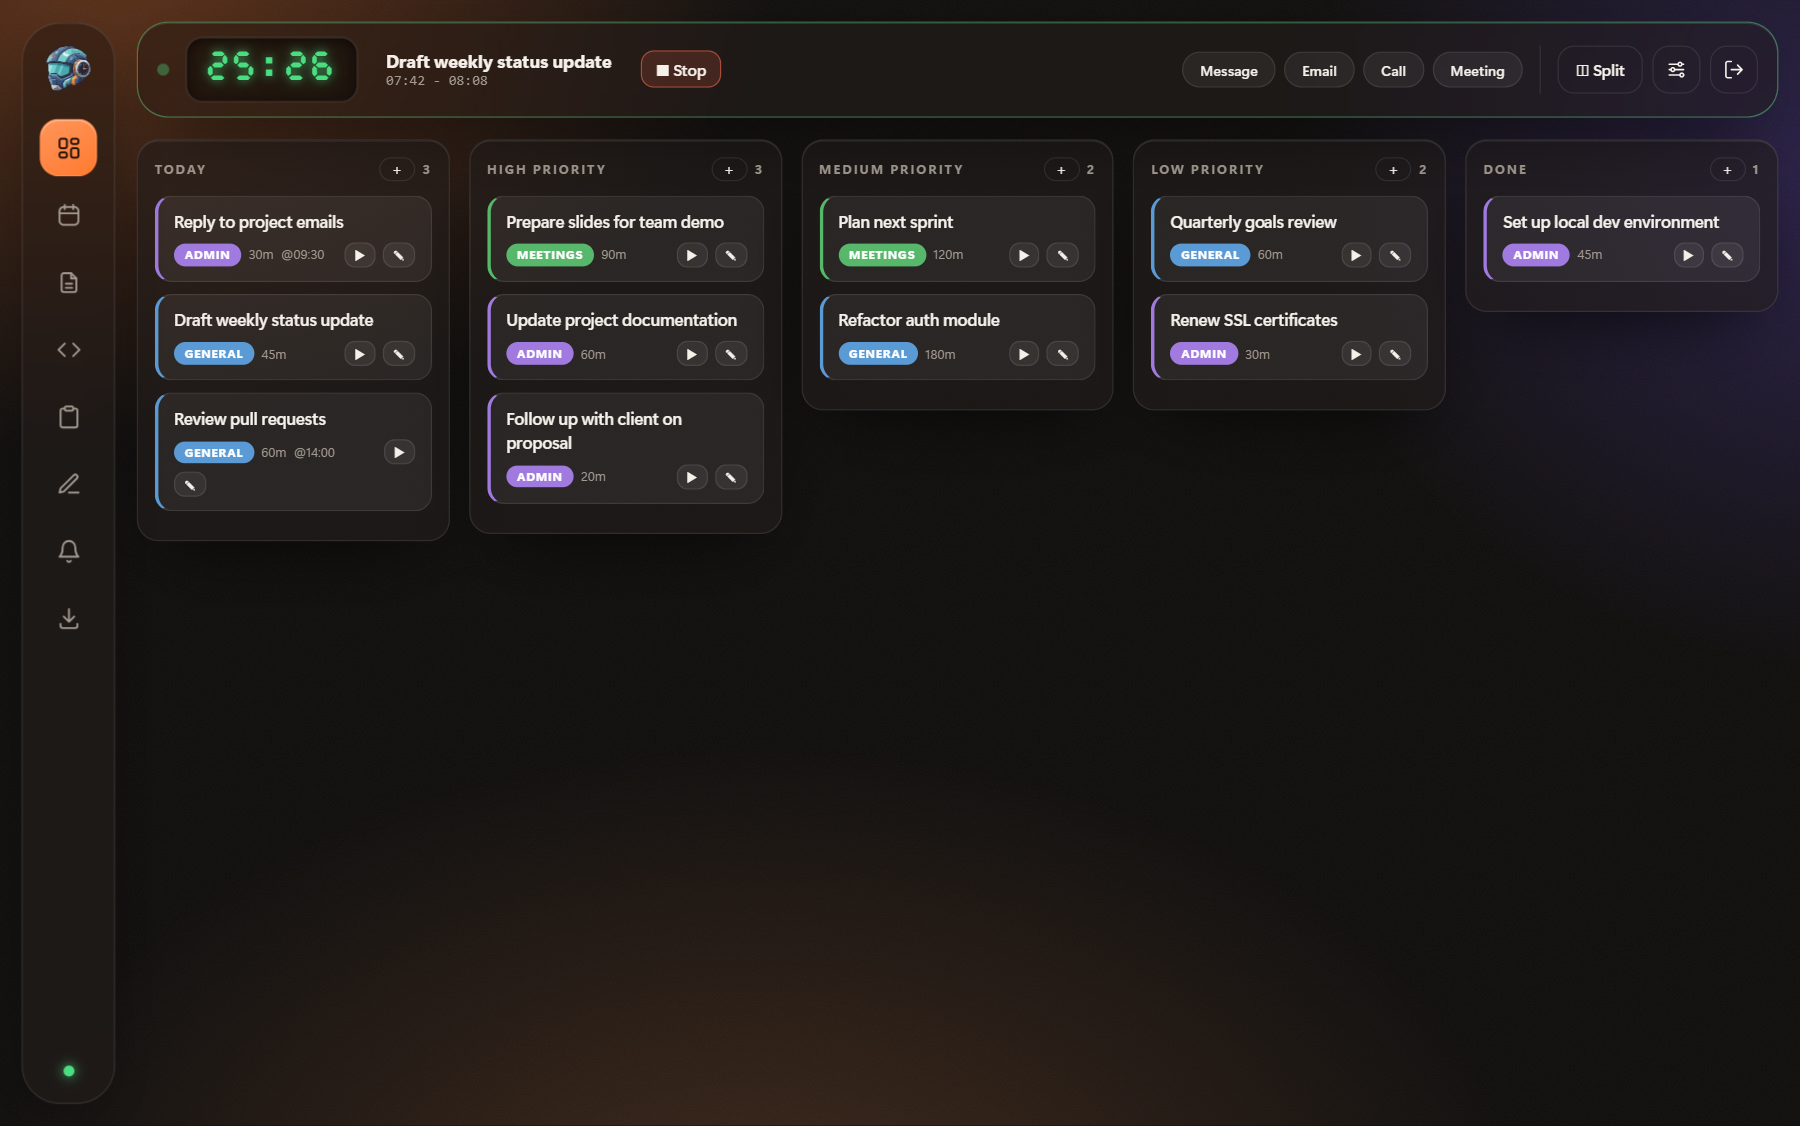
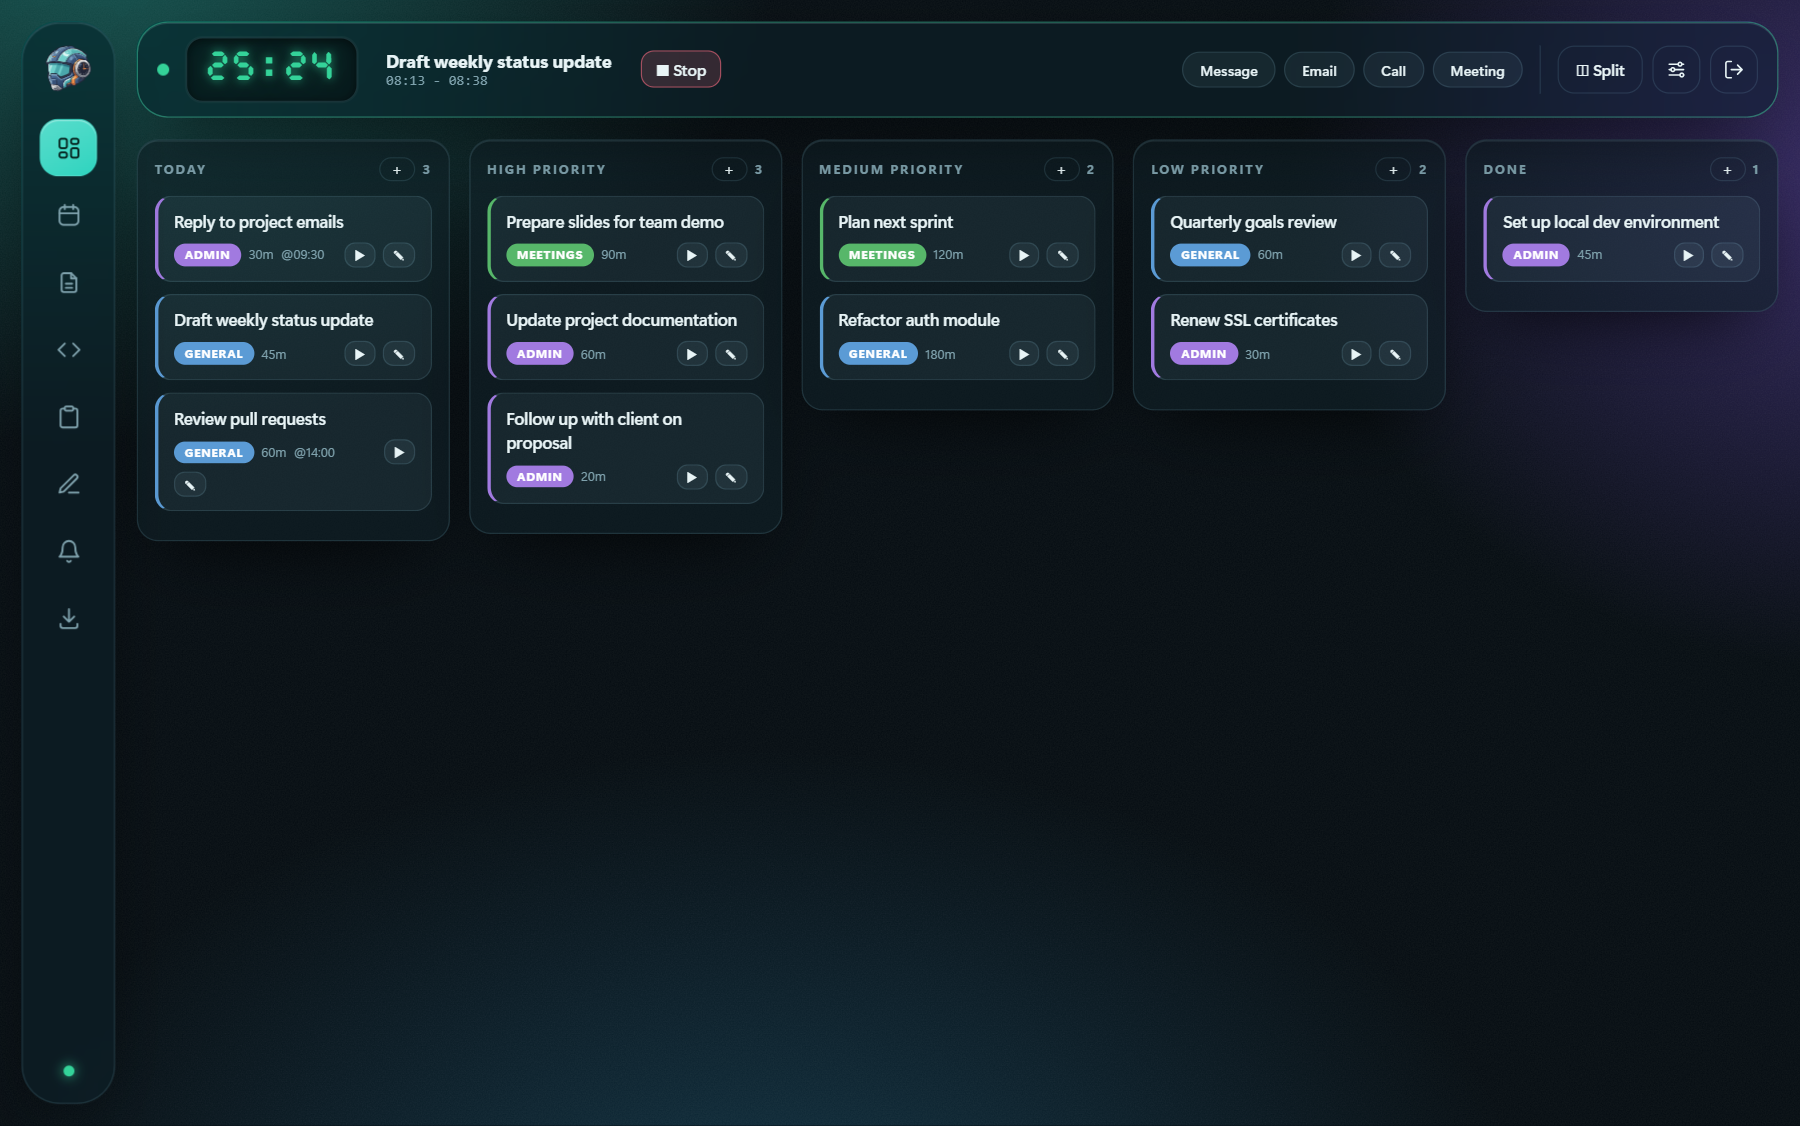
Make Aurora the default theme; redo Dark as true-black ink theme
Re-record screenshots and demo with Aurora, add docs/screenshot-dark.png,
retint login page to match.

diff --git a/templates/base_auth.html b/templates/base_auth.html
@@ -7,15 +7,15 @@
 <link rel="icon" type="image/png" href="{{ url_for('static', filename='favicon.png') }}">
 <style>
 *{box-sizing:border-box;margin:0}
-:root{--bg:#0e0c0b;--surface:rgba(34,30,28,.58);--surface2:rgba(255,255,255,.06);--line:rgba(255,255,255,.10);
-  --text:#f5f0ea;--muted:#a39a91;--accent:#ff7a2f;--danger:#ff6a4d;color-scheme:dark}
+:root{--bg:#050c11;--surface:rgba(15,32,40,.58);--surface2:rgba(190,240,255,.06);--line:rgba(160,230,255,.12);
+  --text:#e8f4f6;--muted:#7fa2ad;--accent:#2dd4bf;--danger:#ff6b81;color-scheme:dark}
 html{background:var(--bg)}
 body{color:var(--text);font-family:"Inter","SF Pro Display","Segoe UI Variable Display","Segoe UI",system-ui,-apple-system,Roboto,sans-serif;
   min-height:100vh;display:flex;align-items:center;justify-content:center;padding:20px;-webkit-font-smoothing:antialiased}
 body::before{content:"";position:fixed;inset:0;z-index:-1;
-  background:radial-gradient(60vmax 46vmax at 6% -6%,rgba(255,122,47,.30),transparent 62%),
-  radial-gradient(52vmax 44vmax at 104% 16%,rgba(120,90,255,.20),transparent 62%),
-  radial-gradient(70vmax 46vmax at 42% 112%,rgba(255,170,90,.14),transparent 62%),var(--bg)}
+  background:radial-gradient(60vmax 46vmax at 6% -6%,rgba(45,212,191,.36),transparent 62%),
+  radial-gradient(52vmax 44vmax at 104% 16%,rgba(139,92,246,.36),transparent 62%),
+  radial-gradient(70vmax 46vmax at 42% 112%,rgba(56,189,248,.22),transparent 62%),var(--bg)}
 .card{background:var(--surface);-webkit-backdrop-filter:blur(26px) saturate(150%);backdrop-filter:blur(26px) saturate(150%);
   border:1px solid var(--line);border-radius:30px;padding:36px 34px;width:100%;max-width:380px;
   box-shadow:0 40px 90px -30px rgba(0,0,0,.8),inset 0 1px 0 rgba(255,255,255,.10)}
@@ -27,13 +27,13 @@ body::before{content:"";position:fixed;inset:0;z-index:-1;
 label{font-size:12px;font-weight:550;color:var(--muted)}
 input[type=text],input[type=password]{background:var(--surface2);border:1px solid var(--line);color:var(--text);
   border-radius:13px;padding:11px 13px;font-size:14px;font-family:inherit;transition:border-color .15s,box-shadow .15s}
-input:focus{outline:none;border-color:var(--accent);box-shadow:0 0 0 3px rgba(255,122,47,.26)}
+input:focus{outline:none;border-color:var(--accent);box-shadow:0 0 0 3px rgba(45,212,191,.26)}
 .errors{color:var(--danger);font-size:12px;margin-top:3px}
 .flash{background:color-mix(in srgb,var(--danger) 15%,transparent);border:1px solid var(--danger);
   color:var(--text);border-radius:13px;padding:9px 12px;font-size:13px;margin-bottom:14px}
 .notice{background:color-mix(in srgb,var(--accent) 14%,transparent);border:1px solid color-mix(in srgb,var(--accent) 60%,transparent);
   color:var(--text);border-radius:13px;padding:9px 12px;font-size:13px;margin-bottom:14px;text-align:center}
-button,input[type=submit]{width:100%;background:linear-gradient(180deg,#ff9a5c,var(--accent));color:#1c0f06;border:none;border-radius:13px;
+button,input[type=submit]{width:100%;background:linear-gradient(180deg,color-mix(in srgb,var(--accent) 86%,#fff),var(--accent));color:#04211d;border:none;border-radius:13px;
   padding:12px;font-size:14px;font-weight:650;cursor:pointer;margin-top:8px;font-family:inherit;appearance:none;
   box-shadow:inset 0 1px 0 rgba(255,255,255,.35);transition:filter .15s,transform .15s}
 button:hover,input[type=submit]:hover{filter:brightness(1.07)}

diff --git a/static/index.html b/static/index.html
@@ -14,14 +14,15 @@
 
 /* ---- themes: glass tint, card tint, hairline, ambient light orbs ---- */
 [data-theme="dark"]{
+  /* "Ink": true-black, monochrome, no ambient colour - deliberately unlike the tinted themes */
   color-scheme:dark;
-  --bg:#0e0c0b; --surface:rgba(34,30,28,.58); --surface-strong:rgba(28,25,23,.86);
-  --surface2:rgba(255,255,255,.06); --line:rgba(255,255,255,.09); --hi:rgba(255,255,255,.10);
-  --text:#f5f0ea; --muted:#a39a91; --accent:#ff7a2f; --accent-text:#1c0f06;
-  --cat-general:#5b9bd5; --cat-secops:#ff6a4d; --cat-change:#b48cf0;
-  --cal:#3f5a78; --danger:#ff6a4d; --ok:#4ade80; --lcd-bg:rgba(0,0,0,.42);
-  --orb1:rgba(255,122,47,.34); --orb2:rgba(120,90,255,.26); --orb3:rgba(255,150,80,.20);
-  --shadow:0 24px 60px -24px rgba(0,0,0,.75);
+  --bg:#000; --surface:rgba(12,12,13,.80); --surface-strong:rgba(8,8,9,.96);
+  --surface2:rgba(255,255,255,.045); --line:rgba(255,255,255,.08); --hi:rgba(255,255,255,.06);
+  --text:#ececee; --muted:#85858c; --accent:#e4e4e8; --accent-text:#0a0a0b;
+  --cat-general:#7aa2d6; --cat-secops:#e0644f; --cat-change:#a58fd6;
+  --cal:#2b3038; --danger:#e0644f; --ok:#4ade80; --lcd-bg:rgba(255,255,255,.04);
+  --orb1:rgba(255,255,255,.035); --orb2:rgba(255,255,255,.02); --orb3:rgba(255,255,255,.025);
+  --shadow:0 24px 60px -24px rgba(0,0,0,.95);
 }
 [data-theme="light"]{
   color-scheme:light;
@@ -432,7 +433,7 @@ input.scrRename{font-size:12px;padding:1px 5px;width:120px;min-width:0}
 @media print{body::before{display:none}nav,#topbar{display:none}}
 </style>
 </head>
-<body data-theme="dark" data-font="sans">
+<body data-theme="aurora" data-font="sans">
 
 <nav>
   <h1 class="brand"><img src="/static/logo.svg" alt=""><span class="brandName">TimePilot</span></h1>
@@ -780,7 +781,7 @@ const safeColor = c => (typeof c === "string" && /^(#[0-9a-fA-F]{3,8}|rgb\([\d,\
 /* ================= settings/theme ================= */
 function applySettings(){
   const validThemes = THEMES.map(t=>t[0]), validFonts = FONTS.map(f=>f[0]);
-  if(!validThemes.includes(S.settings.theme)) S.settings.theme = "dark";
+  if(!validThemes.includes(S.settings.theme)) S.settings.theme = "aurora";
   if(!validFonts.includes(S.settings.font)) S.settings.font = "sans";
   document.body.dataset.theme = S.settings.theme;
   document.body.dataset.font = S.settings.font;

diff --git a/sample_data.py b/sample_data.py
@@ -88,7 +88,7 @@ def build():
     return {
         "settings": {
             "icsUrl": "",
-            "theme": "dark",
+            "theme": "aurora",
             "font": "sans",
             "dayStart": "09:00",
             "dayEnd": "17:00",

diff --git a/app.py b/app.py
@@ -55,7 +55,7 @@ CALENDAR_DOMAIN = "calendar_ics"
 
 DEFAULT_SETTINGS = {
     "icsUrl": "",
-    "theme": "dark",
+    "theme": "aurora",
     "pinView": "",
     "font": "sans",
     "dayStart": "09:00",

diff --git a/README.md b/README.md
@@ -16,9 +16,9 @@ See [CHANGELOG.md](CHANGELOG.md) for what's changed release to release.
 
 ![TimePilot 3.0 screenshot](docs/screenshot.png)
 
-![TimePilot 3.0, Aurora theme](docs/screenshot-aurora.png)
+![TimePilot 3.0, Dark theme](docs/screenshot-dark.png)
 
-*3.0 with the Aurora theme.*
+*3.0 with the Aurora theme (the default, top) and the true-black Dark theme.*
 
 ## Versions
 
@@ -75,7 +75,7 @@ to plain translucent surfaces with no blur; everything still works.
   Snippets, and so on). Clicking the pinned tab swaps the two sides. The
   pinned tab is marked with a dot on the icon rail. The pin is remembered;
   narrow screens fall back to one tab at a time.
-- **Themes** - dark, light, HTB, Dracula and Aurora (Settings ->
+- **Themes** - Aurora (default), a true-black Dark, light, HTB and Dracula (Settings ->
   Appearance), all built on the glass look. On phones the icon rail becomes a
   bottom dock.
 - **Scratchpad** - a plain-text scratch tab for quick copy/paste, with up

diff --git a/CHANGELOG.md b/CHANGELOG.md
@@ -492,3 +492,4 @@ Includes everything in 2.7.0.
   256-colour palette washed out the colours). The classic screenshot is kept
   as `docs/screenshot-classic.png`.
 - **FEATURE:** The image workflow also publishes a floating `:3` tag.
+- **FEATURE:** Aurora is now the default theme for new accounts (and the login page). Dark is redone as a true-black, monochrome "ink" theme with a silver accent and almost no ambient light, so it no longer resembles the tinted themes. Existing accounts keep their saved theme. Screenshots and demo are re-recorded with Aurora; `docs/screenshot-aurora.png` is replaced by `docs/screenshot-dark.png`.
